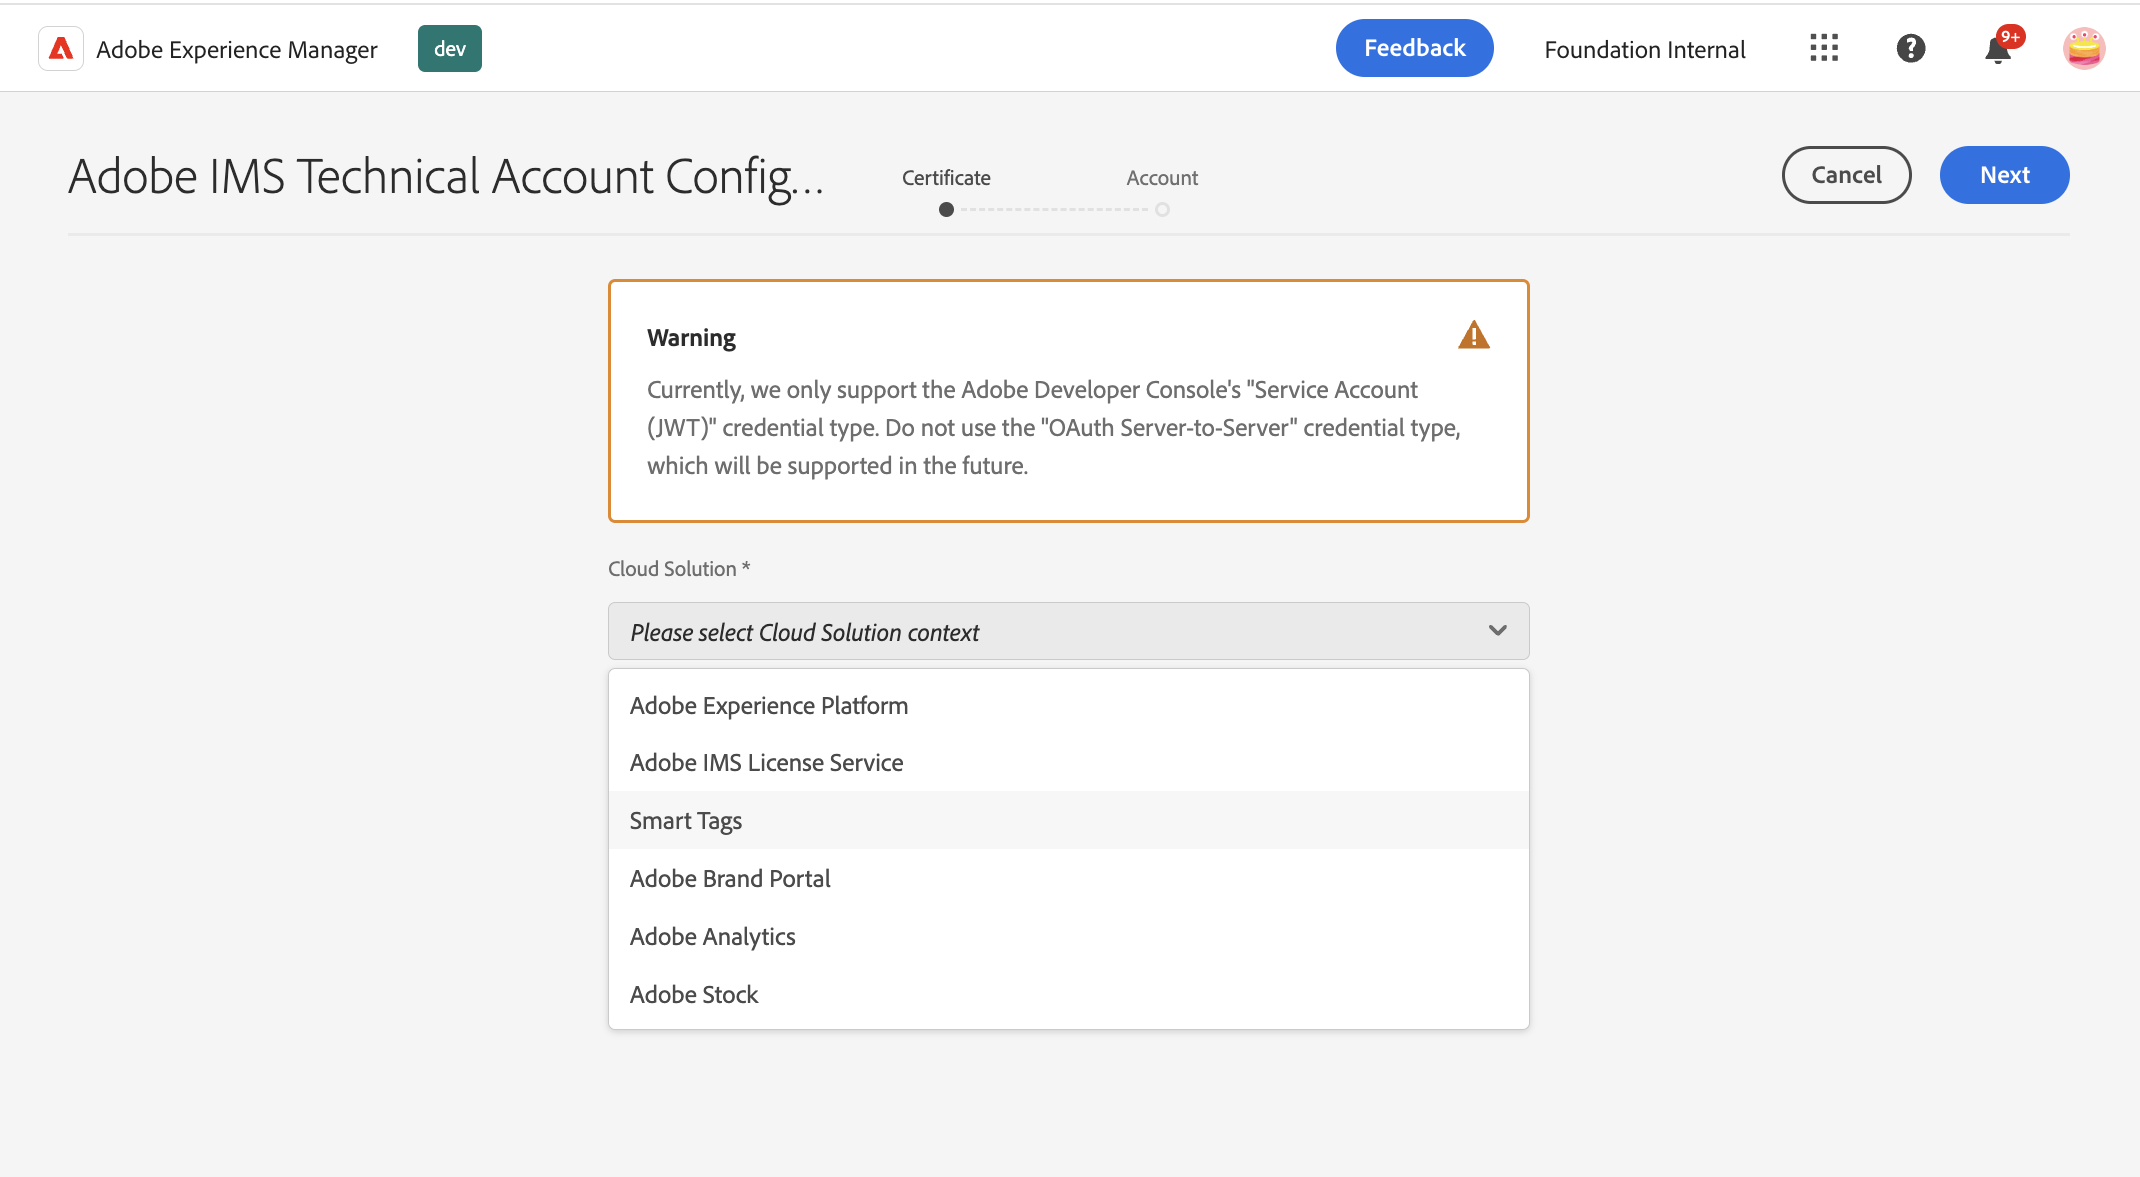
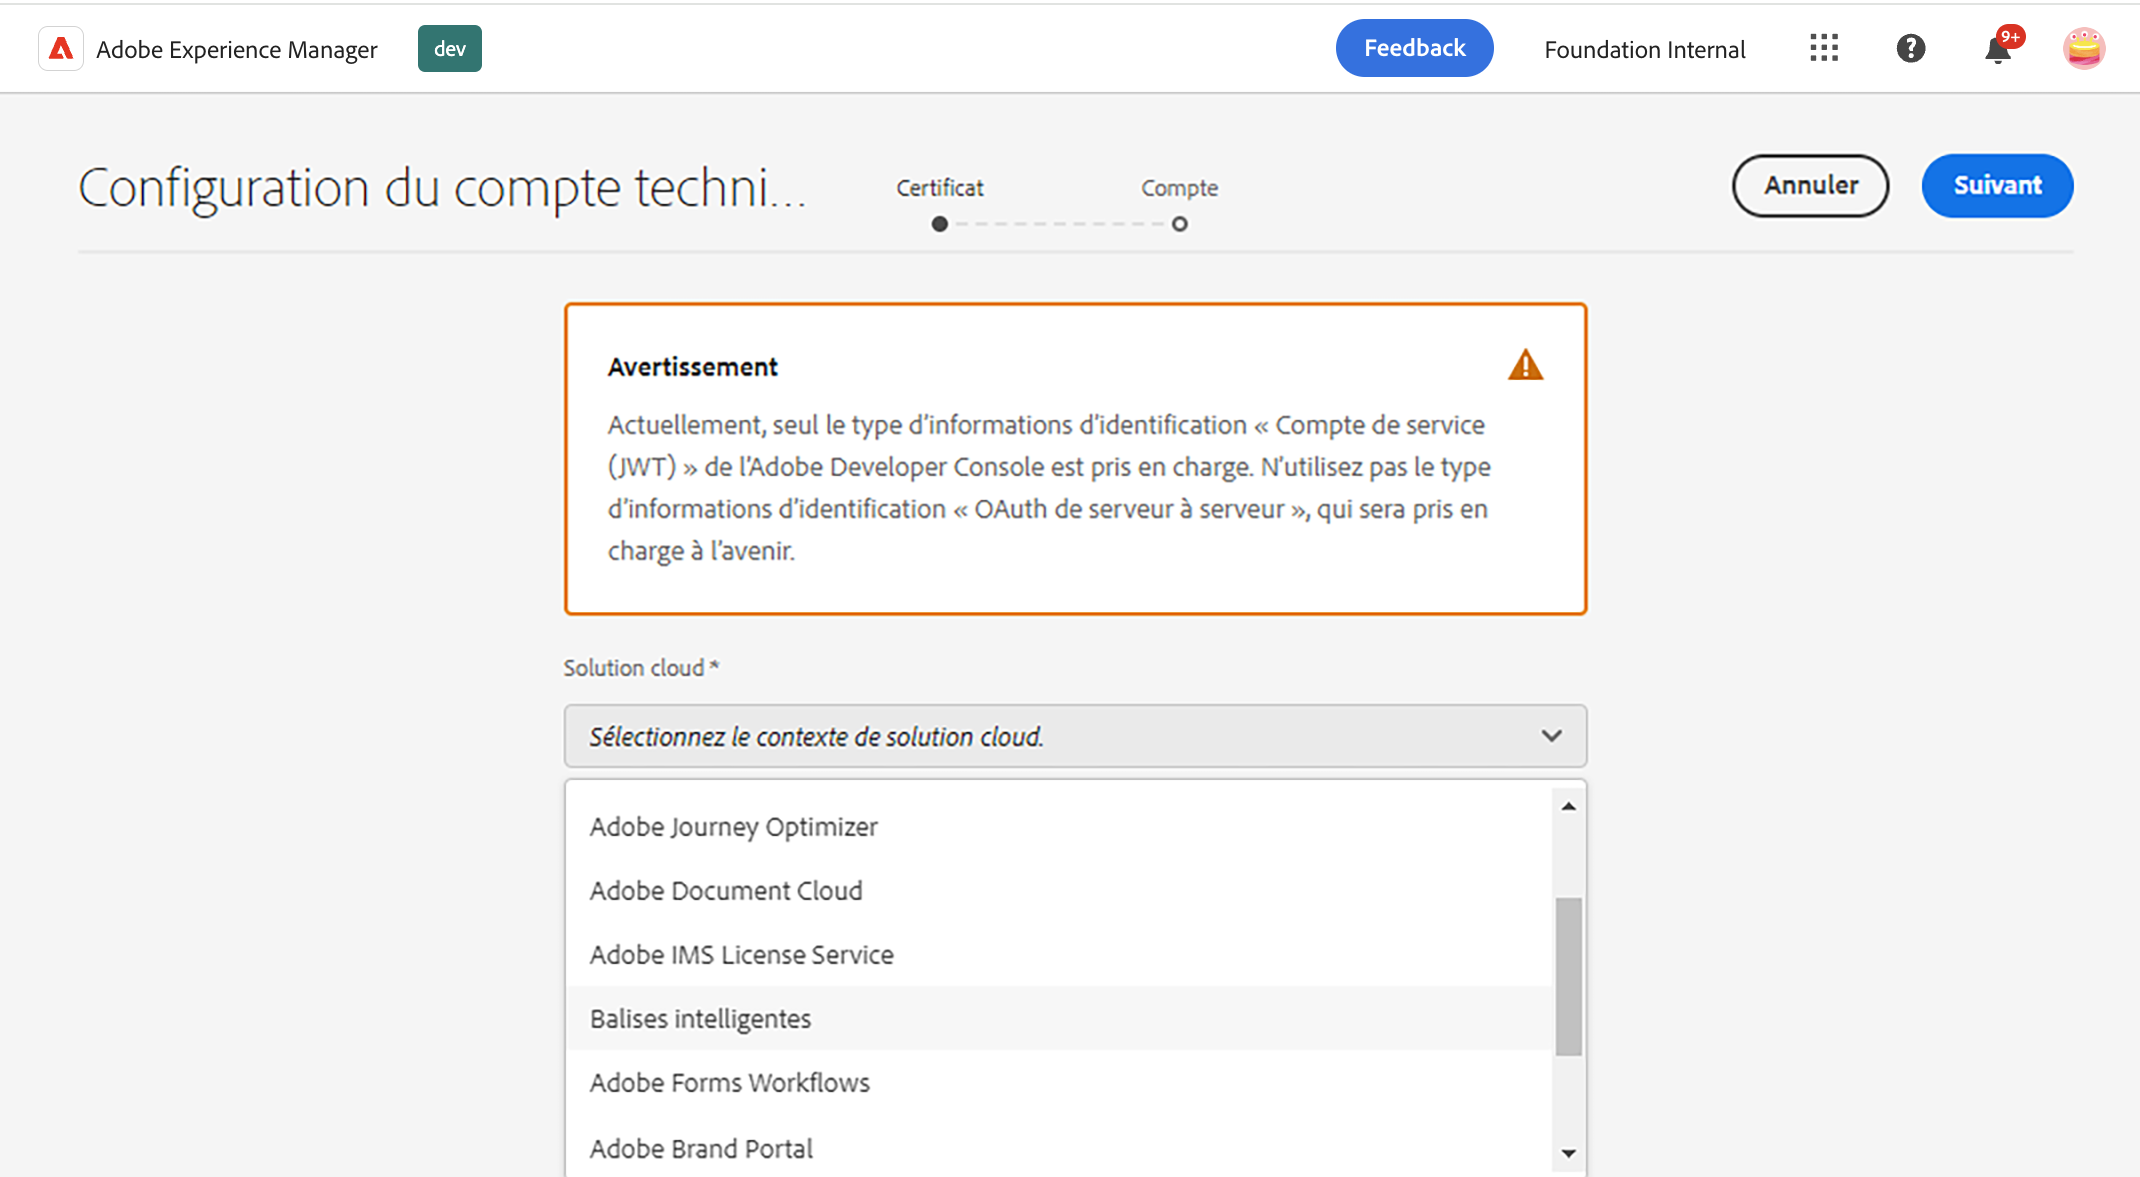
Updated by task 'AUTO_HANDOFF_PRIORITY_1709106731750'  Changes for core/source commit https://git.corp.adobe.com/AdobeDocs/experience-manager-cloud-service.en/commit/120845c9661c081409906cec98c60d8c0798b9bc

diff --git a/help/security/jwt-credentials-deprecation-in-adobe-developer-console.md b/help/security/jwt-credentials-deprecation-in-adobe-developer-console.md
@@ -1,57 +1,57 @@
 ---
-title: Obsolescence des informations d’identification JWT dans la console Adobe Developer
-description: Découvrez l’impact de l’obsolescence des informations d’identification JWT dans la console Adobe Developer sur AEM
+title: Obsolescence des informations d’identification JWT dans Adobe Developer Console
+description: Découvrez l’impact de l’obsolescence des informations d’identification JWT dans Adobe Developer Console sur AEM.
 source-git-commit: e02e38a5267188111f0392a0a5c7b73e6a4f22b5
-workflow-type: tm+mt
+workflow-type: ht
 source-wordcount: '598'
-ht-degree: 0%
+ht-degree: 100%
 
 ---
 
 
-# Obsolescence des informations d’identification JWT dans la console Adobe Developer {#jwt-credentials-deprecation-in-adobe-developer-console}
+# Obsolescence des informations d’identification JWT dans Adobe Developer Console {#jwt-credentials-deprecation-in-adobe-developer-console}
 
-Les clients Adobe utilisent [Console Adobe Developer](https://developer.adobe.com/console) pour générer des informations d’identification qui permettent l’accès à diverses API. Les clients effectuent un choix parmi différents types d’informations d’identification, allant d’OAuth Server à Server en passant par l’application monopage. L’un de ces types d’informations d’identification, les informations d’identification du compte de service (JWT), a été abandonné au profit des informations d’identification OAuth serveur à serveur. Les informations d’identification du nouveau compte de service (JWT) ne peuvent pas être créées le ou après le 1er mai 2024 et les informations d’identification JWT existantes ne fonctionneront pas le ou après le 1er janvier 2025. Vous pouvez [en savoir plus sur l’obsolescence](https://developer.adobe.com/developer-console/docs/guides/authentication/ServerToServerAuthentication/migration/).
+Les clientes et clients Adobe utilisent [Adobe Developer Console](https://developer.adobe.com/console) pour générer des informations d’identification qui permettent l’accès à diverses API. Les clientes et clients effectuent un choix parmi différents types d’informations d’identification, allant d’OAuth serveur à serveur jusqu’à l’application monopage. L’un de ces types d’informations d’identification, celui des informations d’identification du compte de service (JWT), a été abandonné au profit des informations d’identification OAuth serveur à serveur. Les informations d’identification du nouveau compte de service (JWT) ne peuvent plus être créées à partir du 1er mai 2024, et les informations d’identification JWT existantes ne fonctionneront plus à partir du 1er janvier 2025. Vous pouvez [en savoir plus sur l’obsolescence](https://developer.adobe.com/developer-console/docs/guides/authentication/ServerToServerAuthentication/migration/).
 
-Cet article fournit un contexte supplémentaire sur la manière dont AEM clients as a Cloud Service et AEM 6.5 doivent gérer l’obsolescence.
+Cet article fournit un contexte supplémentaire sur la manière dont les clientes et clients AEM as a Cloud Service et AEM 6.5 doivent gérer l’obsolescence.
 
-À ce stade, la principale leçon à retenir est que AEM fonctionnalités ne prennent pas encore en charge les nouvelles informations d’identification OAuth serveur à serveur. La prise en charge sera assurée prochainement : d’ici la mi-avril 2024, par le biais d’une version AEM pour AEM as a Cloud Service, et d’un package de compatibilité spécial à installer pour la version 6.5 d’Adobe, si vous exécutez le dernier Service Pack 20 ou version antérieure (Service Pack 21 et version ultérieure l’inclura automatiquement). Vous avez peut-être reçu un courrier électronique contenant des instructions pour migrer vos informations d’identification JWT, mais assurez-vous que vous pouvez et devez attendre la migration des informations d’identification jusqu’à ce qu’AEM prenne en charge le nouveau type d’informations d’identification OAuth Server-to-Server.
+À ce stade, la principale leçon à retenir est que les fonctionnalités AEM ne prennent pas encore en charge les nouvelles informations d’identification OAuth serveur à serveur. La prise en charge sera assurée prochainement, d’ici la mi-avril 2024 par le biais d’une version AEM pour AEM as a Cloud Service et d’un package de compatibilité spécial à installer pour AEM 6.5, si vous exécutez le dernier pack de services 20 ou version antérieure (le pack de services 21 et les versions ultérieures l’incluront automatiquement). Vous avez peut-être reçu un e-mail contenant des instructions pour migrer vos informations d’identification JWT, mais vous pouvez et devriez attendre la migration des informations d’identification jusqu’à ce qu’AEM prenne en charge le nouveau type d’informations d’identification OAuth serveur à serveur.
 
-Les sections ci-dessous répertorient les scénarios où les clients doivent (ou dans certains cas ne doivent pas) remplacer leurs informations d’identification de compte de service (JWT) par des informations d’identification OAuth Server-to-Server, une fois qu’AEM les prend en charge à la mi-avril. [Lire comment](https://developer.adobe.com/developer-console/docs/guides/authentication/ServerToServerAuthentication/migration/#migration-overview) pour remplacer les informations d’identification ultérieurement.
+Les sections ci-dessous répertorient les scénarios où les clientes et clients doivent (ou dans certains cas ne doivent pas) remplacer leurs informations d’identification de compte de service (JWT) par des informations d’identification OAuth serveur à serveur, une fois qu’AEM les prend en charge à la mi-avril. [Lisez comment](https://developer.adobe.com/developer-console/docs/guides/authentication/ServerToServerAuthentication/migration/#migration-overview) remplacer les informations d’identification ultérieurement.
 
 >[!NOTE]
 >
->La variable [**AEM** Developer Console](/help/implementing/developing/introduction/development-guidelines.md#crxde-lite-and-developer-console) (notez que la variable **AEM** dans le nom, qui le distingue de la fonction **Adobe** Developer Console) fournit un utilitaire de génération [JWT Tokens](/help/implementing/developing/introduction/generating-access-tokens-for-server-side-apis.md) utilisé pour les API serveur à serveur. Ces informations d’identification ne sont pas obsolètes et peuvent continuer à être utilisées.
+>[**AEM** Developer Console](/help/implementing/developing/introduction/development-guidelines.md#crxde-lite-and-developer-console) (notez la mention **AEM** dans le nom, qui permet une distinction avec **Adobe** Developer Console) fournit un utilitaire pour générer des [jetons JWT](/help/implementing/developing/introduction/generating-access-tokens-for-server-side-apis.md) utilisés pour les API serveur à serveur. Ces informations d’identification ne sont pas obsolètes et peuvent continuer à être utilisées.
 
 
-## Intégration d’AEM à d’autres solutions d’Adobe {#integrating-aem-with-other-adobe-solutions}
+## Intégrer AEM à d’autres solutions Adobe {#integrating-aem-with-other-adobe-solutions}
 
-**Action**: patientez jusqu’à la mi-avril 2024, date à laquelle AEM le prend en charge.
+**Action** : patientez jusqu’à la mi-avril 2024, date à laquelle AEM les prendra en charge.
 
-**Versions d’AEM pertinentes**: AEM as a Cloud Service et Adobe Managed Services (Service Pack 20 et versions antérieures).
+**Versions d’AEM pertinentes** : AEM as a Cloud Service et Adobe Managed Services (pack de services 20 et versions antérieures).
 
 
-Les clients AEM utilisent l’interface utilisateur d’AEM auteur pour configurer des intégrations avec toutes les autres solutions d’Adobe. Par exemple, Adobe Target, Adobe Analytics, Adobe Launch, AFCS, etc.
+Les clientes et clients AEM utilisent l’interface utilisateur de création AEM pour configurer des intégrations à toutes les autres solutions Adobe. Par exemple, Adobe Target, Adobe Analytics, Adobe Launch, AFCS, etc.
 
-![Intégration d’AEM à d’autres solutions](/help/security/assets/jwt-deprecation.png)
+![Intégrer AEM à d’autres solutions](/help/security/assets/jwt-deprecation.png)
 
-Par exemple, voici : [les instructions](https://docs.mktossl.com/docs/experience-manager-cloud-service/content/sites/integrations/integration-adobe-target-ims.html?lang=en) pour configurer l’intégration avec Adobe Target. La clé API dans la variable [Réalisation de la configuration IMS dans AEM](https://docs.mktossl.com/docs/experience-manager-cloud-service/content/sites/integrations/integration-adobe-target-ims.html#completing-the-ims-configuration-in-aem) doit être migrée vers le type d’informations d’identification OAuth Server-to-Server, une fois AEM prise en charge de ces informations d’identification mi-avril. Ces instructions seront mises à jour à la mi-avril afin de vous aider à appliquer les nouvelles informations d’identification OAuth serveur à serveur.
+Par exemple, voici les [instructions](https://docs.mktossl.com/docs/experience-manager-cloud-service/content/sites/integrations/integration-adobe-target-ims.html?lang=fr) pour configurer l’intégration à Adobe Target. La clé API dans la section [Réalisation de la configuration IMS dans AEM](https://docs.mktossl.com/docs/experience-manager-cloud-service/content/sites/integrations/integration-adobe-target-ims.html?lang=fr#completing-the-ims-configuration-in-aem) doit être migrée vers le type d’informations d’identification OAuth serveur à serveur, une fois qu’AEM prendra en charge ces informations d’identification à la mi-avril. Ces instructions seront mises à jour à la mi-avril afin de vous aider à appliquer les nouvelles informations d’identification OAuth serveur à serveur.
 
 ## API Cloud Manager {#cloud-manager-apis}
 
-**Action**: patientez jusqu’à la mi-avril 2024, date à laquelle AEM le prend en charge.
+**Action** : patientez jusqu’à la mi-avril 2024, date à laquelle AEM les prendra en charge.
 
-**Versions d’AEM pertinentes**: AEM as a Cloud Service et Adobe Managed Services (Service Pack 20 et versions antérieures).
+**Versions d’AEM pertinentes** : AEM as a Cloud Service et Adobe Managed Services (pack de services 20 et versions antérieures).
 
-Les clients créent des projets de la console Adobe Developer pour pouvoir appeler [API de Cloud Manager](https://developer.adobe.com/experience-cloud/cloud-manager/guides/getting-started/create-api-integration/). Les informations d’identification du projet Adobe Developer doivent être migrées vers le type OAuth Server-to-Server, une fois qu’AEM et Cloud Manager le prennent en charge.
+Les clientes et clients créent des projets Adobe Developer Console pour pouvoir appeler les [API Cloud Manager](https://developer.adobe.com/experience-cloud/cloud-manager/guides/getting-started/create-api-integration/). Les informations d’identification du projet Adobe Developer doivent être migrées vers le type OAuth serveur à serveur, une fois qu’AEM et Cloud Manager les prendront en charge.
 
 ## Projets générés automatiquement {#autogen-projects}
 
-**Action**: ne migrez pas, car Adobe migre en votre nom.
+**Action** : n’effectuez pas de migration, car Adobe le fera en votre nom.
 
-**Versions d’AEM pertinentes**: uniquement AEM as a Cloud Service.
+**Versions d’AEM pertinentes** : uniquement AEM as a Cloud Service.
 
-Lorsque Cloud Manager fournit AEM environnements as a Cloud Service, il génère automatiquement un projet de console Adobe Developer avec des informations d’identification JWT. Ce projet est marqué comme en lecture seule, comme illustré dans la capture d’écran ci-dessous. Les clients ne peuvent pas et ne doivent pas tenter de migrer ces projets vers les informations d’identification OAuth serveur à serveur ; au lieu de cela, Adobe migre ces projets tout seul, avant que les informations d’identification ne ne soient plus utilisables.
+Lorsque Cloud Manager fournit des environnements AEM as a Cloud Service, un projet Adobe Developer Console est génèré automatiquement avec des informations d’identification JWT. Ce projet est marqué comme en lecture seule, comme illustré dans la copie d’écran ci-dessous. Les clientes et clients ne peuvent pas et ne doivent pas tenter de migrer ces projets vers les informations d’identification OAuth serveur à serveur. Au lieu de cela, Adobe migre ces projets, avant que les informations d’identification ne soient plus utilisables.
 
 ![Projets générés automatiquement](/help/security/assets/jwt-deprecation-autogen-projects.png)
 

diff --git a/help/release-notes/release-notes-cloud/release-notes-current.md b/help/release-notes/release-notes-cloud/release-notes-current.md
@@ -4,7 +4,7 @@ description: Notes de mise à jour actuelles pour [!DNL Adobe Experience Manager
 mini-toc-levels: 1
 exl-id: a2d56721-502c-4f4e-9b72-5ca790df75c5
 source-git-commit: 3a86639d9203fff3c72e63baa8d1499b18a4539f
-workflow-type: tm+mt
+workflow-type: ht
 source-wordcount: '937'
 ht-degree: 100%
 
@@ -26,7 +26,7 @@ La section suivante concerne les notes de mise à jour techniques de la version 
 
 ## Date de publication {#release-date}
 
-La date de publication de la version actuelle de [!DNL Adobe Experience Manager] as a [!DNL Cloud Service] (2024.1.0) est le 25 janvier 2024. La prochaine disponibilité des fonctionnalités (2024.3.0) est prévue pour le vendredi 4 avril 2024.
+La date de publication de la version actuelle de [!DNL Adobe Experience Manager] as a [!DNL Cloud Service] (2024.1.0) est le 25 janvier 2024. La prochaine disponibilité des fonctionnalités (2024.3.0) est prévue pour le 4 avril 2024.
 
 ## Notes de mise à jour de la maintenance {#maintenance}
 

diff --git a/help/overview/what-is-new-and-different.md b/help/overview/what-is-new-and-different.md
@@ -3,7 +3,7 @@ title: Nouveautés et différences – Adobe Experience Manager as a Cloud Servi
 description: Nouveautés et différences – Adobe Experience Manager (AEM) as a Cloud Service.
 exl-id: d1ce126e-960c-4367-b741-af709dd81010
 source-git-commit: bbd845079cb688dc3e62e2cf6b1a63c49a92f6b4
-workflow-type: tm+mt
+workflow-type: ht
 source-wordcount: '1883'
 ht-degree: 100%
 
